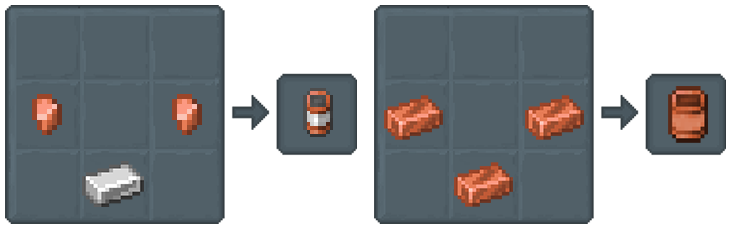
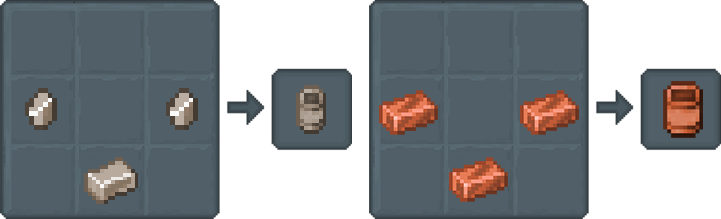
Tier 2 updates

diff --git a/docs/marketplace/Addons/tinkers/Docs/Melting & More/tier_2.md b/docs/marketplace/Addons/tinkers/Docs/Melting & More/tier_2.md
@@ -5,7 +5,7 @@ sidebar_position: 12
 
 ![Tier 2 Materials](../../_assets/images/tinkers-tier_2_materials.png)
 
-## Tier 1 Materials
+## Tier 2 Materials
 
 Use these materials to craft parts for your melee weapons and harvest tools!
 
@@ -23,13 +23,30 @@ Here's all the Tier 2 Materials:
 - Harvest Tier: Iron
 - Mining Speed: 5
 - Attack Damage: 1.75
+- Trait: **Magnetic**
 
 **Tool Handle/Guard**
 - Durability: 1.05x
 - Mining Speed: 0.85x
 - Attack Damage: 1.05x
+- Trait: **Magnetic**
 
-**Trait**: Magnetic
+### Bronze
+![Pickaxe Head](../../_assets/images/parts/pickaxe_head_bronze.png) ![Axe Head](../../_assets/images/parts/axe_head_bronze.png) ![Shoel Head](../../_assets/images/parts/shoel_head_bronze.png)  ![Dagger Blade](../../_assets/images/parts/dagger_blade_bronze.png) ![Sword Blade](../../_assets/images/parts/sword_blade_bronze.png) ![Cleaver Blade](../../_assets/images/parts/cleaver_blade_bronze.png)
+
+
+**Tool Head**
+- Durability: 380
+- Harvest Tier: Diamond
+- Mining Speed: 5
+- Attack Damage: 1.75
+- Trait: **Reinforced**
+
+**Tool Handle/Guard**
+- Durability: 1.05x
+- Mining Speed: 0.85x
+- Attack Damage: 1.05x
+- Trait: **Reinforced**
 
 ### Gold 
 ![Pickaxe Head](../../_assets/images/parts/pickaxe_head_gold.png) ![Axe Head](../../_assets/images/parts/axe_head_gold.png) ![Shoel Head](../../_assets/images/parts/shoel_head_gold.png)  ![Dagger Blade](../../_assets/images/parts/dagger_blade_gold.png) ![Sword Blade](../../_assets/images/parts/sword_blade_gold.png) ![Cleaver Blade](../../_assets/images/parts/cleaver_blade_gold.png)
@@ -39,13 +56,13 @@ Here's all the Tier 2 Materials:
 - Harvest Tier: Gold
 - Mining Speed: 9.5
 - Attack Damage: 0.75
+- Trait: **Speed**
 
 **Tool Handle/Guard**
 - Durability: 0.25x
 - Mining Speed: 2.5x
 - Attack Damage: 0.5x
-
-**Trait**: Speed
+- Trait: **Speed**
 
 ### Pig Iron 
 ![Pickaxe Head](../../_assets/images/parts/pickaxe_head_pig_iron.png) ![Axe Head](../../_assets/images/parts/axe_head_pig_iron.png) ![Shoel Head](../../_assets/images/parts/shoel_head_pig_iron.png)  ![Dagger Blade](../../_assets/images/parts/dagger_blade_pig_iron.png) ![Sword Blade](../../_assets/images/parts/sword_blade_pig_iron.png) ![Cleaver Blade](../../_assets/images/parts/cleaver_blade_pig_iron.png)
@@ -55,13 +72,13 @@ Here's all the Tier 2 Materials:
 - Harvest Tier: Diamond
 - Mining Speed: 6
 - Attack Damage: 2.5
+- Trait: **Tasty**
 
 **Tool Handle/Guard**
 - Durability: 1.1x
 - Mining Speed: 0.85x
 - Attack Damage: 1.1x
-
-**Trait**: Tasty
+- Trait: **Tasty**
 
 ### Rose Gold 
 ![Pickaxe Head](../../_assets/images/parts/pickaxe_head_rose_gold.png) ![Axe Head](../../_assets/images/parts/axe_head_rose_gold.png) ![Shoel Head](../../_assets/images/parts/shoel_head_rose_gold.png)  ![Dagger Blade](../../_assets/images/parts/dagger_blade_rose_gold.png) ![Sword Blade](../../_assets/images/parts/sword_blade_rose_gold.png) ![Cleaver Blade](../../_assets/images/parts/cleaver_blade_rose_gold.png)
@@ -71,10 +88,10 @@ Here's all the Tier 2 Materials:
 - Harvest Tier: Gold
 - Mining Speed: 9
 - Attack Damage: 1
+- Trait: **Experienced**
 
 **Tool Handle/Guard**
 - Durability: 0.6x
 - Mining Speed: 1.2x
 - Attack Damage: 1x
-
-**Trait**: Experienced
+- Trait: **Experienced**

diff --git a/docs/marketplace/Addons/tinkers/Docs/Melting & More/moving_liquids.md b/docs/marketplace/Addons/tinkers/Docs/Melting & More/moving_liquids.md
@@ -11,15 +11,15 @@ You've got the hang of melting, Tinker! Now, the burning question: how do we get
 
 ![Cans and Melter](../../_assets/images/tinkers-cans_and_melter.webp)
 
-### Iron and Copper Cans
+### Tin and Copper Cans
 
 Need to transport, store, or pour your freshly melted liquids? 
 
 ![Cans Recipe](../../_assets/images/tinkers-cans_recipe.png)
 
-Look no further than Iron & Copper Cans!
+Look no further than Tin & Copper Cans!
 
-**Iron Cans** hold one-tenth the volume of a bucket, offering a tiny *100mB (or 100 millibuckets)* of storage.
+**Tin Cans** hold one-tenth the volume of a bucket, offering a tiny *100mB (or 100 millibuckets)* of storage.
 
 However, **Copper Cans** hold one-fifth the volume of a bucket, offering a convenient *200mB* of storage.
 

diff --git a/docs/marketplace/Addons/tinkers/Docs/Melting & More/index.md b/docs/marketplace/Addons/tinkers/Docs/Melting & More/index.md
@@ -80,3 +80,16 @@ Seared Bricks in a Flash:
 *Crafted in a Crafting Table.*
  
 **Tip:** *Pop these blocks in a Stonecutter for even more design options!*
+
+#### Seared Faucet
+
+![Seared Faucet Recipe](../../_assets/images/tinkers-seared_faucet_recipe.png)
+
+For quick and direct pouring of molten liquid into Casting Tables and Basins, Seared Faucets are significantly faster than using cans.
+
+Provided the liquid doesn't need to be moved or stored.
+
+How to use:
+1. Place a Faucet on the side of a Melter or Seared Drain.
+2. Place either a Casting Table or Basin below it.
+3. Interact with the Faucet to pour it out.

diff --git a/docs/marketplace/Addons/tinkers/Docs/The Smeltery & Beyond/index.md b/docs/marketplace/Addons/tinkers/Docs/The Smeltery & Beyond/index.md
@@ -56,6 +56,7 @@ Smelteries need a steady supply of heat to melt metals. That's where tanks come 
 
 *Tip: While tanks are great for fueling your smeltery, they're also versatile! You can use them to store water for other purposes.*
 
+
 ### Seared Drain
 
 ![Seared Drain Recipe](../../_assets/images/tinkers-seared_Drain_recipe.png)

diff --git a/docs/marketplace/Addons/tinkers/Docs/Melting & More/tier_2_traits.md b/docs/marketplace/Addons/tinkers/Docs/Melting & More/tier_2_traits.md
@@ -26,3 +26,6 @@ Here are the Tier 2 Traits:
 
 ### Experienced
 - Increases the amount of experience you get from defeating mobs and mining ores.
+
+### Reinforced
+- Each use has a 20% chance to avoid consuming durability.

diff --git a/docs/marketplace/Addons/tinkers/Docs/Melting & More/melter.md b/docs/marketplace/Addons/tinkers/Docs/Melting & More/melter.md
@@ -13,6 +13,7 @@ This is your basic Melter, perfect for getting started with simple tasks.
 
 ### How to use
 
+**Master the Melter:** 
 This handy tool has two parts in one: the heater and the tank.
 
 **Fuel Up:**
